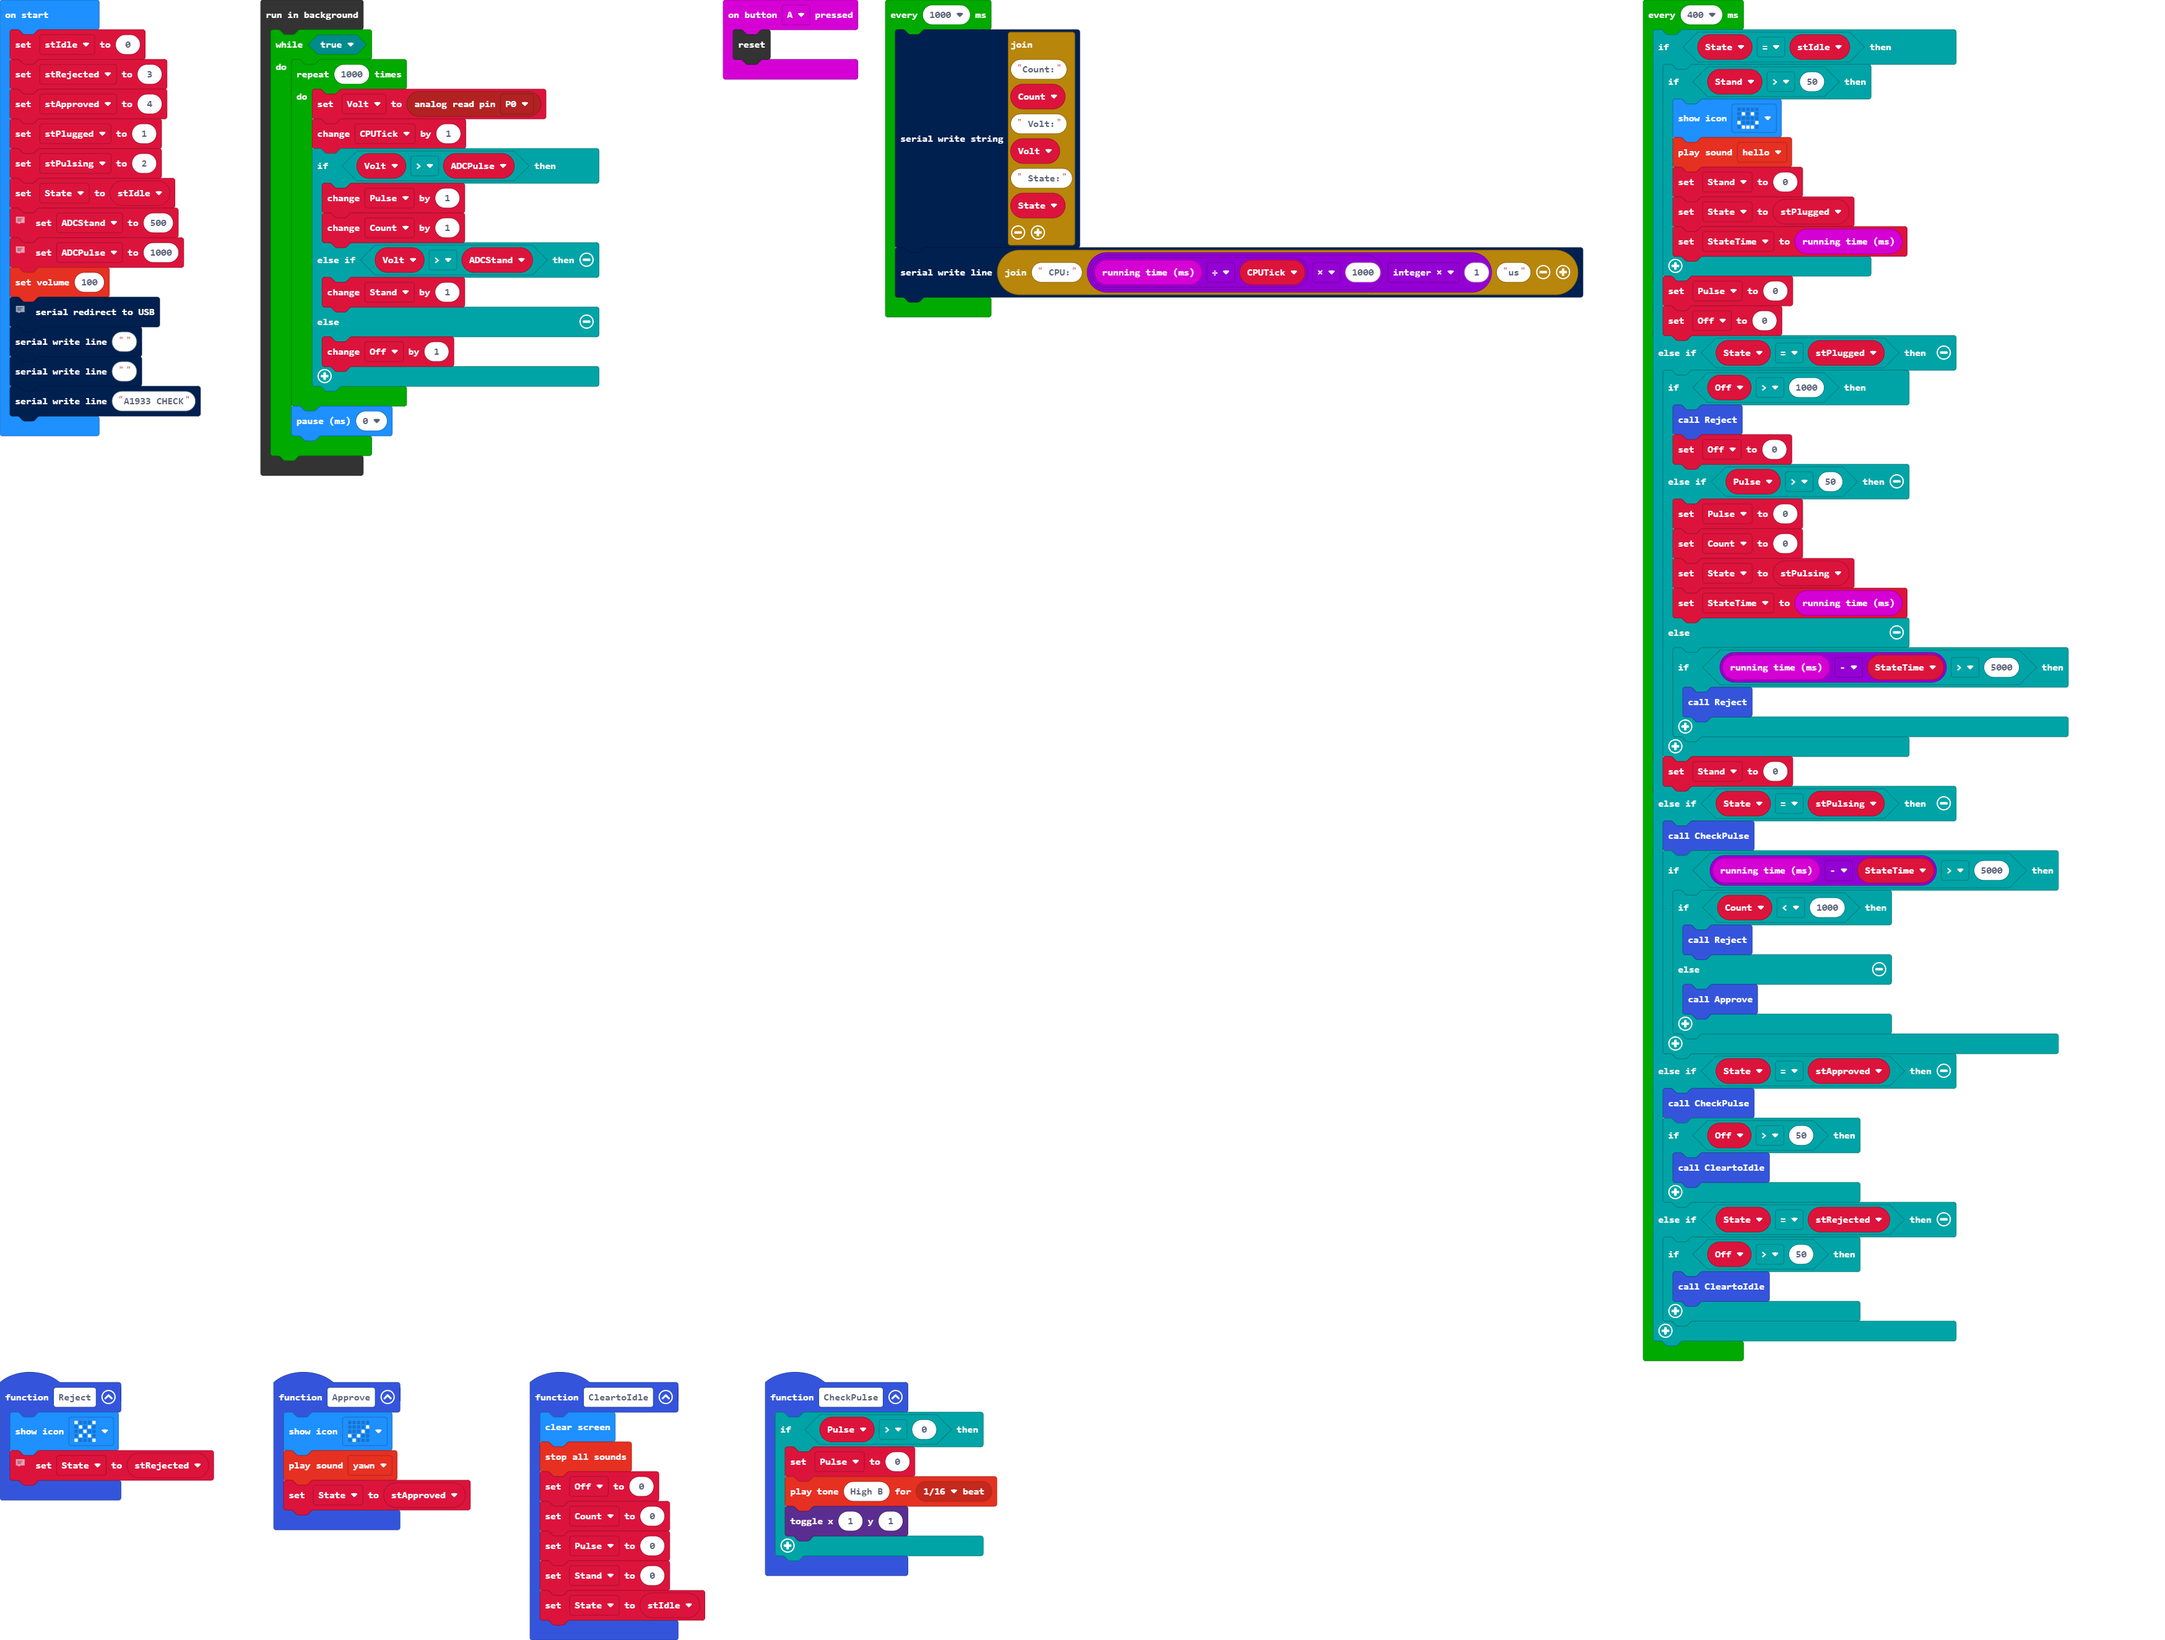
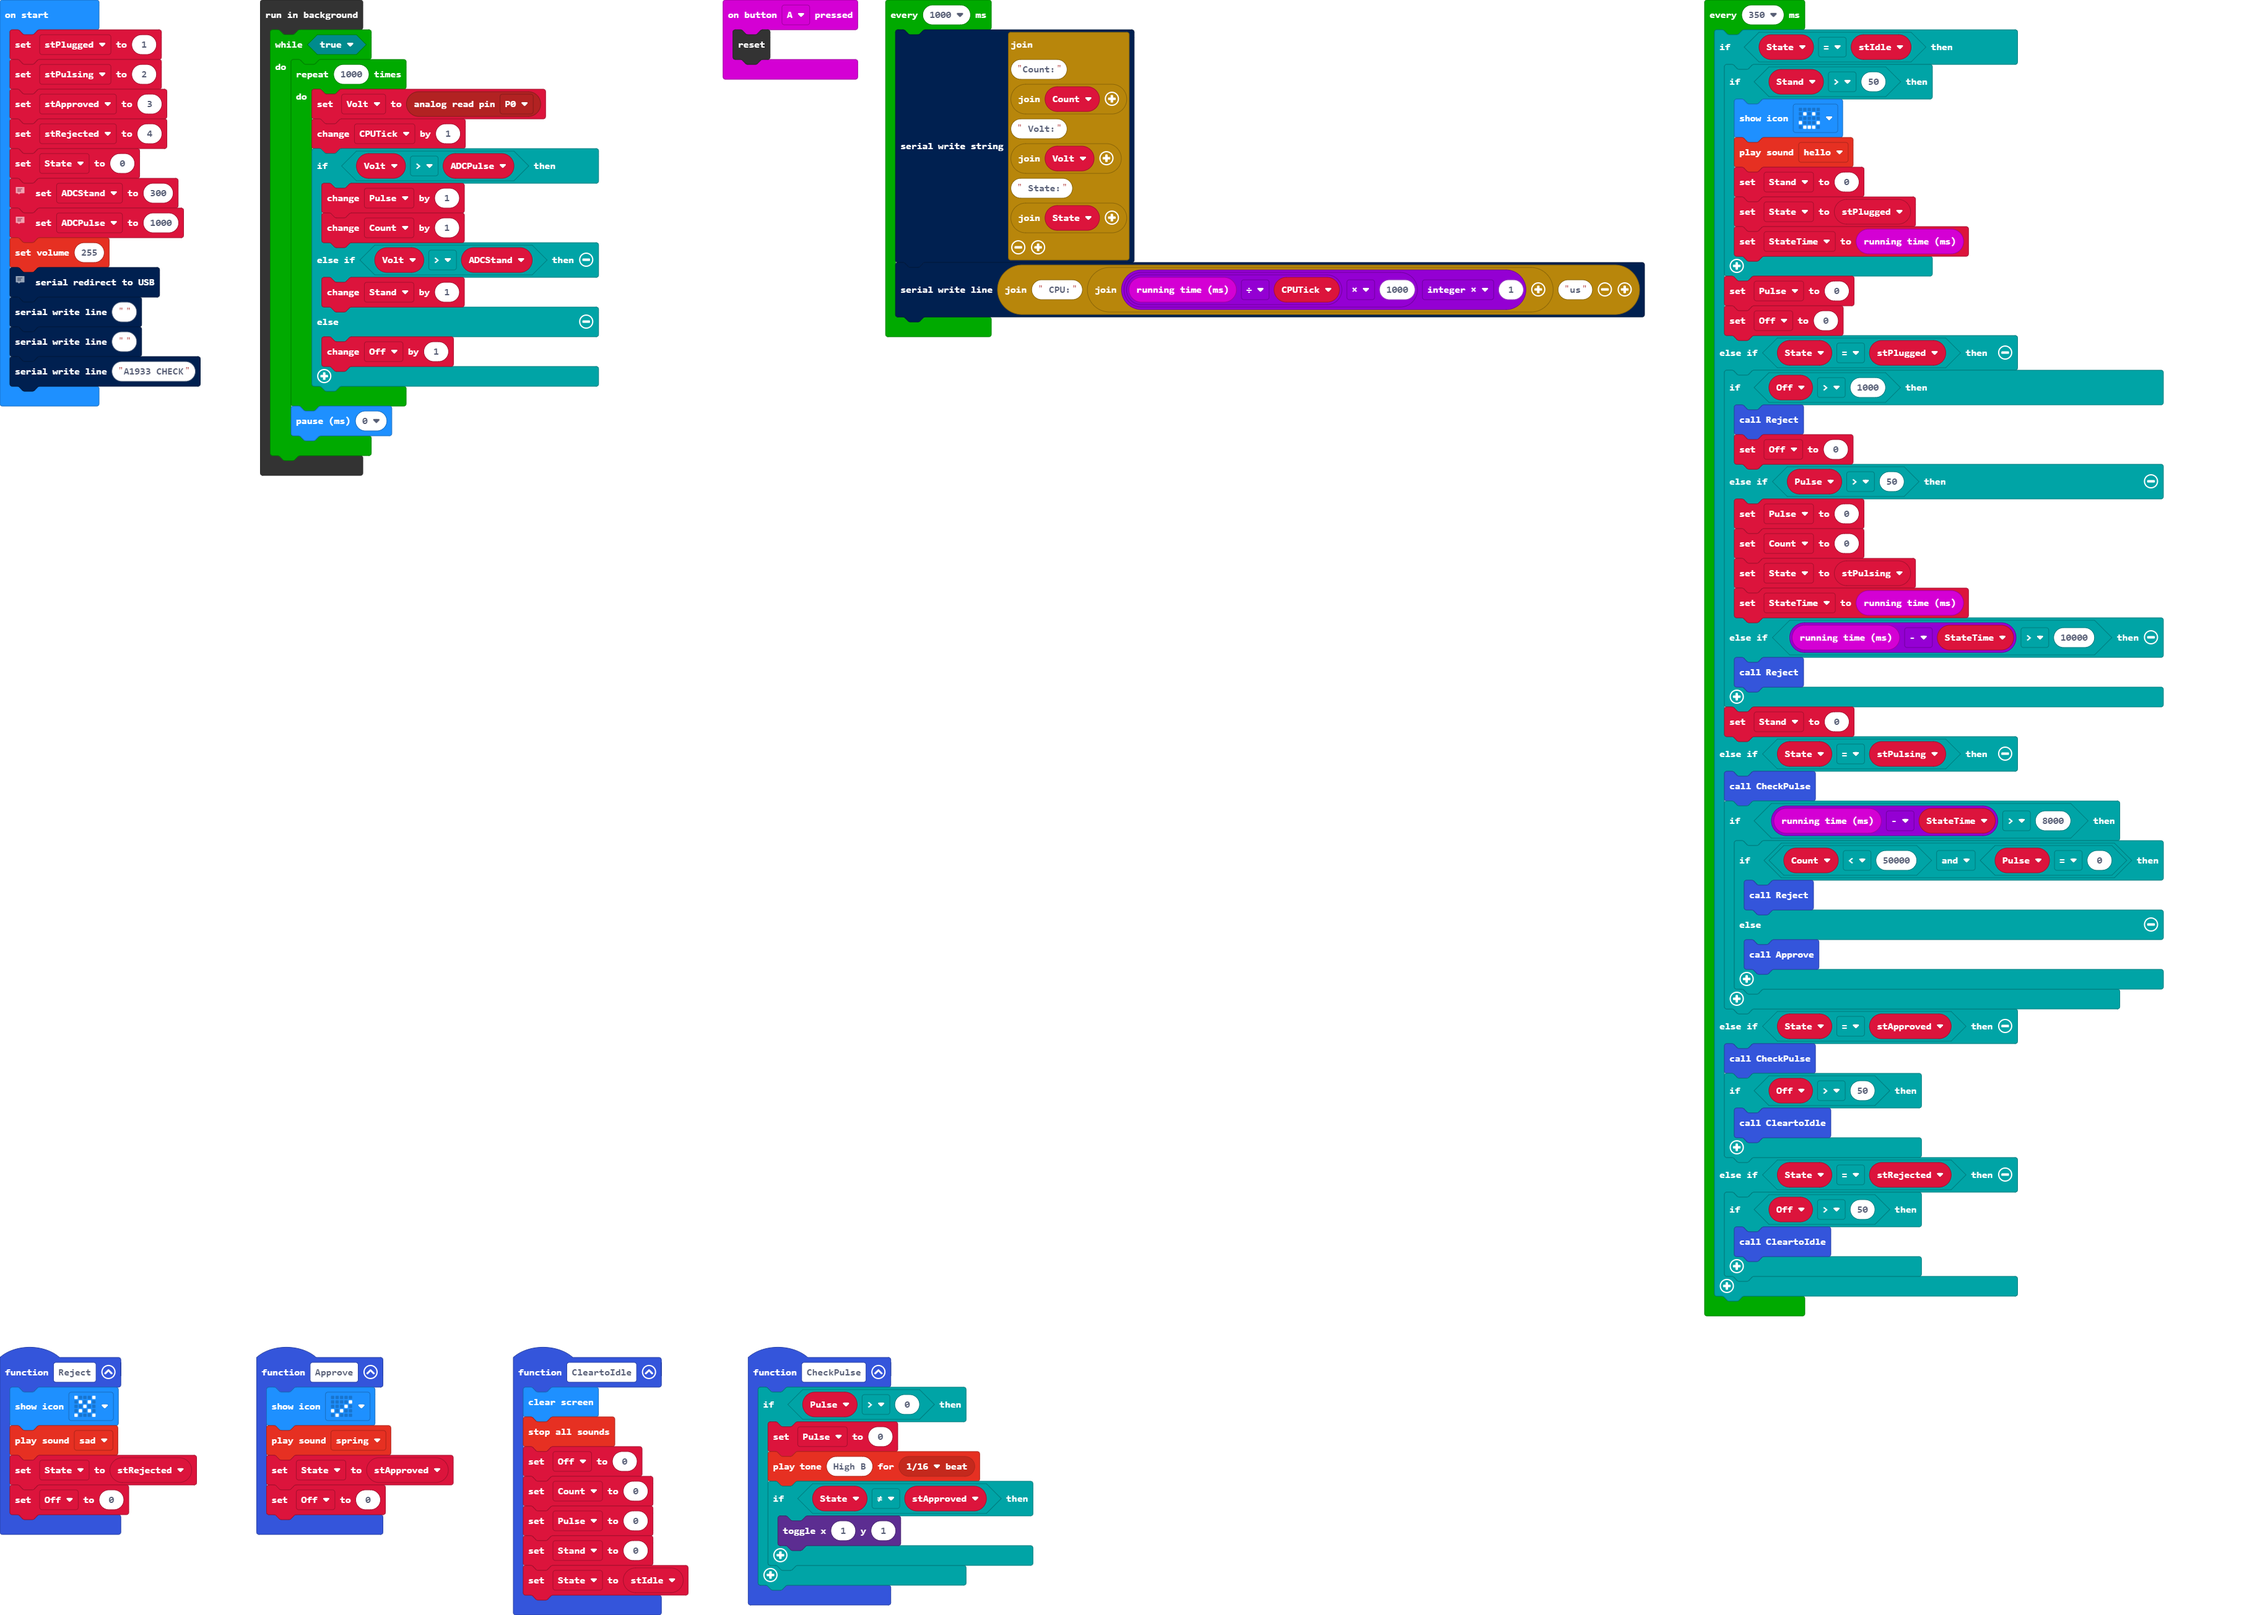
Update pxt.json, main.blocks, main.ts, main.py

Changed region(s): [[0.3117, 0.0, 0.9663, 0.8383], [0.0, 0.0, 0.2805, 0.3105], [0.0, 0.8383, 0.4675, 1.0]]

diff --git a/main.ts b/main.ts
@@ -1,7 +1,8 @@
 function Reject () {
     basic.showIcon(IconNames.No)
-    // soundExpression.sad.play()
+    soundExpression.sad.play()
     State = stRejected
+    Off = 0
 }
 input.onButtonPressed(Button.A, function () {
     control.reset()
@@ -17,65 +18,50 @@ function CleartoIdle () {
 }
 function Approve () {
     basic.showIcon(IconNames.Yes)
-    soundExpression.yawn.play()
+    soundExpression.spring.play()
     State = stApproved
+    Off = 0
 }
 function CheckPulse () {
     if (Pulse > 0) {
         Pulse = 0
         music.playTone(988, music.beat(BeatFraction.Sixteenth))
-        led.toggle(1, 1)
+        if (State != stApproved) {
+            led.toggle(1, 1)
+        }
     }
 }
 let StateTime = 0
 let CPUTick = 0
 let Volt = 0
+let stIdle = 0
 let Stand = 0
 let Pulse = 0
 let Count = 0
 let Off = 0
 let State = 0
-let stApproved = 0
 let stRejected = 0
-let stIdle = 0
-stIdle = 0
-stRejected = 3
-stApproved = 4
+let stApproved = 0
 let stPlugged = 1
 let stPulsing = 2
-State = stIdle
+stApproved = 3
+stRejected = 4
+State = 0
 // 1023 / 3.3 * 0.6
 let ADCStand = 300
 // 1023 / 3.3 * 2
 let ADCPulse = 1000
-music.setVolume(100)
+music.setVolume(255)
 // basic.showString("A1933 CHECK")
 serial.redirectToUSB()
 serial.writeLine("")
 serial.writeLine("")
 serial.writeLine("A1933 CHECK")
 loops.everyInterval(1000, function () {
-    serial.writeString("Count:" + Count + " Volt:" + Volt + " State:" + State)
-    serial.writeLine(" CPU:" + Math.imul(input.runningTime() / CPUTick * 1000, 1) + "us")
+    serial.writeString("Count:" + ("" + Count) + " Volt:" + ("" + Volt) + " State:" + ("" + State))
+    serial.writeLine(" CPU:" + ("" + Math.imul(input.runningTime() / CPUTick * 1000, 1)) + "us")
 })
-control.inBackground(function () {
-    while (true) {
-        for (let index = 0; index < 1000; index++) {
-            Volt = pins.analogReadPin(AnalogPin.P0)
-            CPUTick += 1
-            if (Volt > ADCPulse) {
-                Pulse += 1
-                Count += 1
-            } else if (Volt > ADCStand) {
-                Stand += 1
-            } else {
-                Off += 1
-            }
-        }
-        basic.pause(0)
-    }
-})
-loops.everyInterval(400, function () {
+loops.everyInterval(350, function () {
     if (State == stIdle) {
         if (Stand > 50) {
             basic.showIcon(IconNames.Happy)
@@ -95,16 +81,14 @@ loops.everyInterval(400, function () {
             Count = 0
             State = stPulsing
             StateTime = input.runningTime()
-        } else {
-            if (input.runningTime() - StateTime > 5000) {
-                Reject()
-            }
+        } else if (input.runningTime() - StateTime > 10000) {
+            Reject()
         }
         Stand = 0
     } else if (State == stPulsing) {
         CheckPulse()
-        if (input.runningTime() - StateTime > 5000) {
-            if (Count < 1000) {
+        if (input.runningTime() - StateTime > 8000) {
+            if (Count < 50000 && Pulse == 0) {
                 Reject()
             } else {
                 Approve()
@@ -119,5 +103,22 @@ loops.everyInterval(400, function () {
         if (Off > 50) {
             CleartoIdle()
         }
+    }
+})
+control.inBackground(function () {
+    while (true) {
+        for (let index = 0; index < 1000; index++) {
+            Volt = pins.analogReadPin(AnalogPin.P0)
+            CPUTick += 1
+            if (Volt > ADCPulse) {
+                Pulse += 1
+                Count += 1
+            } else if (Volt > ADCStand) {
+                Stand += 1
+            } else {
+                Off += 1
+            }
+        }
+        basic.pause(0)
     }
 })

diff --git a/main.py b/main.py
@@ -1,41 +1,64 @@
+def Reject():
+    global State
+    basic.show_icon(IconNames.NO)
+    soundExpression.sad.play()
+    State = stRejected
+
 def on_button_pressed_a():
-    basic.show_number(Count)
+    control.reset()
 input.on_button_pressed(Button.A, on_button_pressed_a)
 
-def on_button_pressed_b():
-    global Count
+def CleartoIdle():
+    global Off, Count, Pulse, Stand, State
+    basic.clear_screen()
+    music.stop_all_sounds()
+    Off = 0
     Count = 0
-    basic.show_number(Count)
-input.on_button_pressed(Button.B, on_button_pressed_b)
-
-Off = 0
-Stand = 0
-Pulse = 0
+    Pulse = 0
+    Stand = 0
+    State = stIdle
+def Approve():
+    global State
+    basic.show_icon(IconNames.YES)
+    soundExpression.yawn.play()
+    State = stApproved
+def CheckPulse():
+    global Pulse
+    if Pulse > 0:
+        Pulse = 0
+        music.play_tone(988, music.beat(BeatFraction.SIXTEENTH))
+        led.toggle(1, 1)
+StateTime = 0
 CPUTick = 0
 Volt = 0
+Stand = 0
+Pulse = 0
 Count = 0
+Off = 0
+State = 0
+stApproved = 0
+stRejected = 0
 stIdle = 0
+stIdle = 0
+stPlugged = 1
+stPulsing = 2
+stRejected = 3
+stApproved = 4
+State = 0
 # 1023 / 3.3 * 0.6
-ADCStand = 500
+ADCStand = 300
 # 1023 / 3.3 * 2
 ADCPulse = 1000
-stPlug = 1
-stPulse = 2
-stApprove = 3
-stReprove = 4
-State = stIdle
 music.set_volume(100)
 # basic.showString("A1933 CHECK")
 serial.redirect_to_usb()
 serial.write_line("")
 serial.write_line("")
 serial.write_line("A1933 CHECK")
-pins.analog_set_period(AnalogPin.P1, 1000000)
-pins.analog_write_pin(AnalogPin.P1, 1021)
 
 def on_every_interval():
-    serial.write_string("" + str(Count) + " : " + ("" + str(Volt)) + " : ")
-    serial.write_line("" + str(Math.imul(input.running_time() / CPUTick * 1000, 1)) + "us")
+    serial.write_string("Count:" + ("" + str(Count)) + " Volt:" + ("" + str(Volt)) + " State:" + ("" + str(State)))
+    serial.write_line(" CPU:" + ("" + str(Math.imul(input.running_time() / CPUTick * 1000, 1))) + "us")
 loops.every_interval(1000, on_every_interval)
 
 def on_in_background():
@@ -55,24 +78,40 @@ def on_in_background():
 control.in_background(on_in_background)
 
 def on_every_interval2():
-    global Pulse, Off, Stand
-    if Pulse > 0:
-        Pulse = 0
-        music.play_tone(988, music.beat(BeatFraction.SIXTEENTH))
-        led.toggle(1, 1)
-    elif Stand > Off:
-        if Off > 0:
-            Off = 0
+    global Stand, State, StateTime, Pulse, Off, Count
+    if State == stIdle:
+        if Stand > 50:
             basic.show_icon(IconNames.HAPPY)
             soundExpression.hello.play()
             Stand = 0
-    elif Off > Stand:
-        if Stand > 0:
-            Stand = 0
-            basic.show_icon(IconNames.YES)
-            soundExpression.yawn.play()
-        else:
-            basic.clear_screen()
-            music.stop_all_sounds()
+            State = stPlugged
+            StateTime = input.running_time()
+        Pulse = 0
+        Off = 0
+    elif State == stPlugged:
+        if Off > 1000:
+            Reject()
             Off = 0
+        elif Pulse > 50:
+            Pulse = 0
+            Count = 0
+            State = stPulsing
+            StateTime = input.running_time()
+        elif input.running_time() - StateTime > 10000:
+            Reject()
+        Stand = 0
+    elif State == stPulsing:
+        CheckPulse()
+        if input.running_time() - StateTime > 5000:
+            if Count < 50000 and Pulse == 0:
+                Reject()
+            else:
+                Approve()
+    elif State == stApproved:
+        CheckPulse()
+        if Off > 50:
+            CleartoIdle()
+    elif State == stRejected:
+        if Off > 50:
+            CleartoIdle()
 loops.every_interval(400, on_every_interval2)
